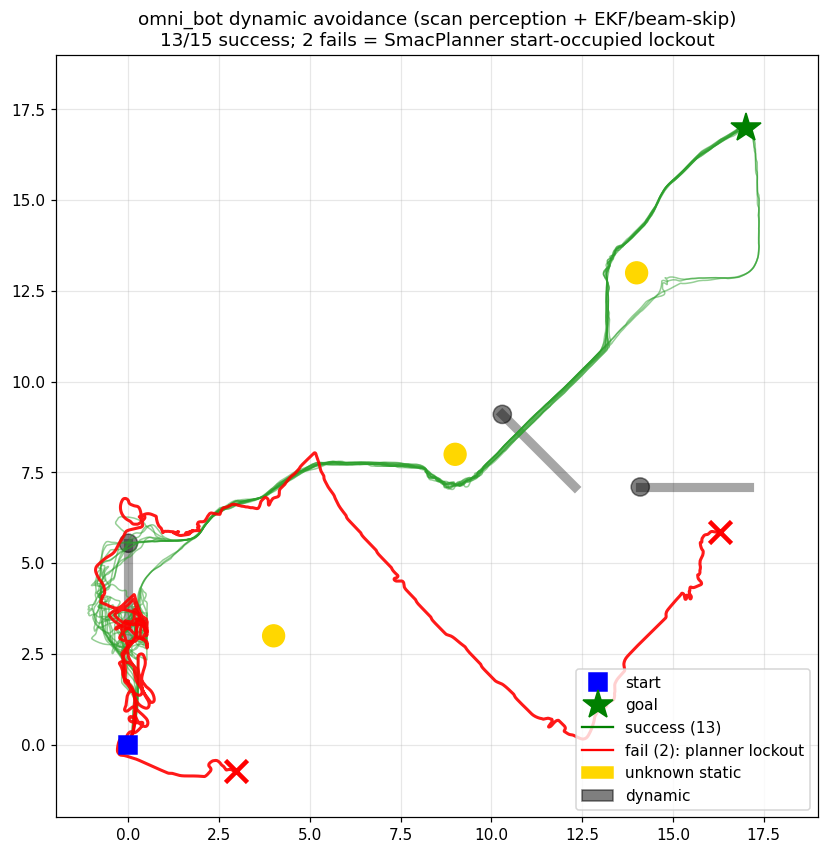
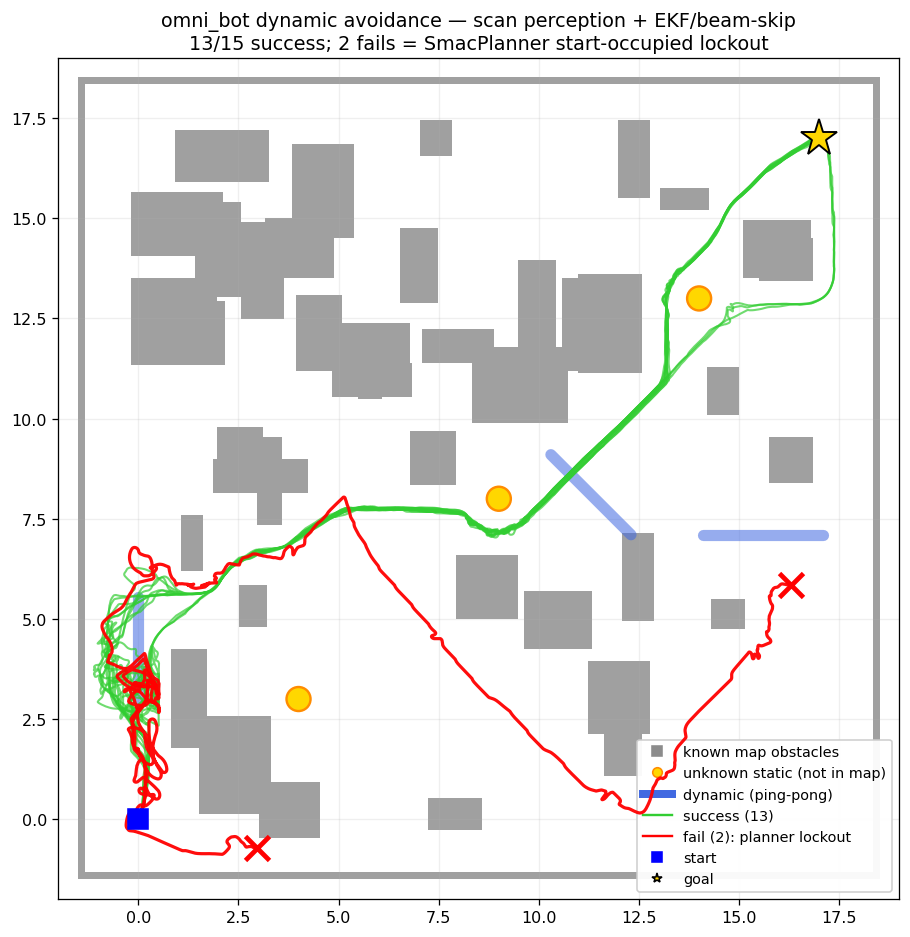
Auto-update: 2026-06-27 01:43

diff --git a/src/ammr_wholebody_mpc/ammr_wholebody_mpc/scan_obstacle_tracker.py b/src/ammr_wholebody_mpc/ammr_wholebody_mpc/scan_obstacle_tracker.py
@@ -195,6 +195,12 @@ class ScanObstacleTracker(Node):
                                  self._scan_cb, scan_qos)
 
         self.pub = self.create_publisher(Float32MultiArray, str(g('output_topic')), 10)
+        # /scan_filtered: the input scan with DYNAMIC-obstacle rays removed, for
+        # the global costmap. Keeps the planner seeing only static geometry
+        # (walls + unknown static) so a passing dynamic obstacle never makes the
+        # robot's start cell "occupied" -> no SmacPlanner start-occupied lockout.
+        self.scan_mask_margin = 0.20
+        self.filtered_pub = self.create_publisher(LaserScan, '/scan_filtered', scan_qos)
         self.publish_markers = bool(g('publish_markers'))
         self.mpub = self.create_publisher(MarkerArray, '/gmpc/scan_obstacles_viz', 10) \
             if self.publish_markers else None
@@ -275,6 +281,44 @@ class ScanObstacleTracker(Node):
                 + int(scan.header.stamp.nanosec)) or self.get_clock().now().nanoseconds
         self._update_tracks(clusters, t_ns)
         self._publish(t_ns, scan.header.stamp)
+        self._publish_filtered_scan(scan, tx, ty, cyaw, syaw)
+
+    # ------------------------------------------------------------------
+    def _publish_filtered_scan(self, scan, tx, ty, cyaw, syaw):
+        """Republish the scan with rays hitting confirmed MOVING obstacles set
+        to +inf, so the global costmap (planner) sees static geometry only."""
+        moving = [t for t in self._tracks
+                  if t.age >= self.min_age
+                  and math.hypot(*t.kf.velocity) >= self.min_speed]
+        out = LaserScan()
+        out.header = scan.header
+        out.angle_min = scan.angle_min
+        out.angle_max = scan.angle_max
+        out.angle_increment = scan.angle_increment
+        out.time_increment = scan.time_increment
+        out.scan_time = scan.scan_time
+        out.range_min = scan.range_min
+        out.range_max = scan.range_max
+        out.intensities = scan.intensities
+        if not moving:
+            out.ranges = scan.ranges
+            self.filtered_pub.publish(out)
+            return
+        ranges = list(scan.ranges)
+        a = scan.angle_min
+        for i, r in enumerate(scan.ranges):
+            if math.isfinite(r) and scan.range_min < r < scan.range_max:
+                lx, ly = r * math.cos(a), r * math.sin(a)
+                mx = tx + cyaw * lx - syaw * ly
+                my = ty + syaw * lx + cyaw * ly
+                for tr in moving:
+                    px, py = tr.kf.position
+                    if math.hypot(mx - px, my - py) <= tr.radius + self.scan_mask_margin:
+                        ranges[i] = float('inf')
+                        break
+            a += scan.angle_increment
+        out.ranges = ranges
+        self.filtered_pub.publish(out)
 
     # ------------------------------------------------------------------
     def _update_tracks(self, clusters, t_ns: int):

diff --git a/src/my_omnibot_description/launch/omni_bot_nav.launch.py b/src/my_omnibot_description/launch/omni_bot_nav.launch.py
@@ -110,6 +110,11 @@ def generate_launch_description():
              name='gmpc_controller', output='screen',
              parameters=[gmpc_params, cbf_overrides],
              condition=IfCondition(cbf)),
+        # publishes /scan_filtered (= /scan here, no dynamic obstacles) which the
+        # costmaps subscribe to; keeps this static launch consistent with dynamic.
+        Node(package='ammr_wholebody_mpc', executable='scan_obstacle_tracker',
+             name='scan_obstacle_tracker', output='screen',
+             parameters=[{'use_sim_time': True}]),
     ])
 
     # Foxglove only when interactive (skip for headless batch trials)
